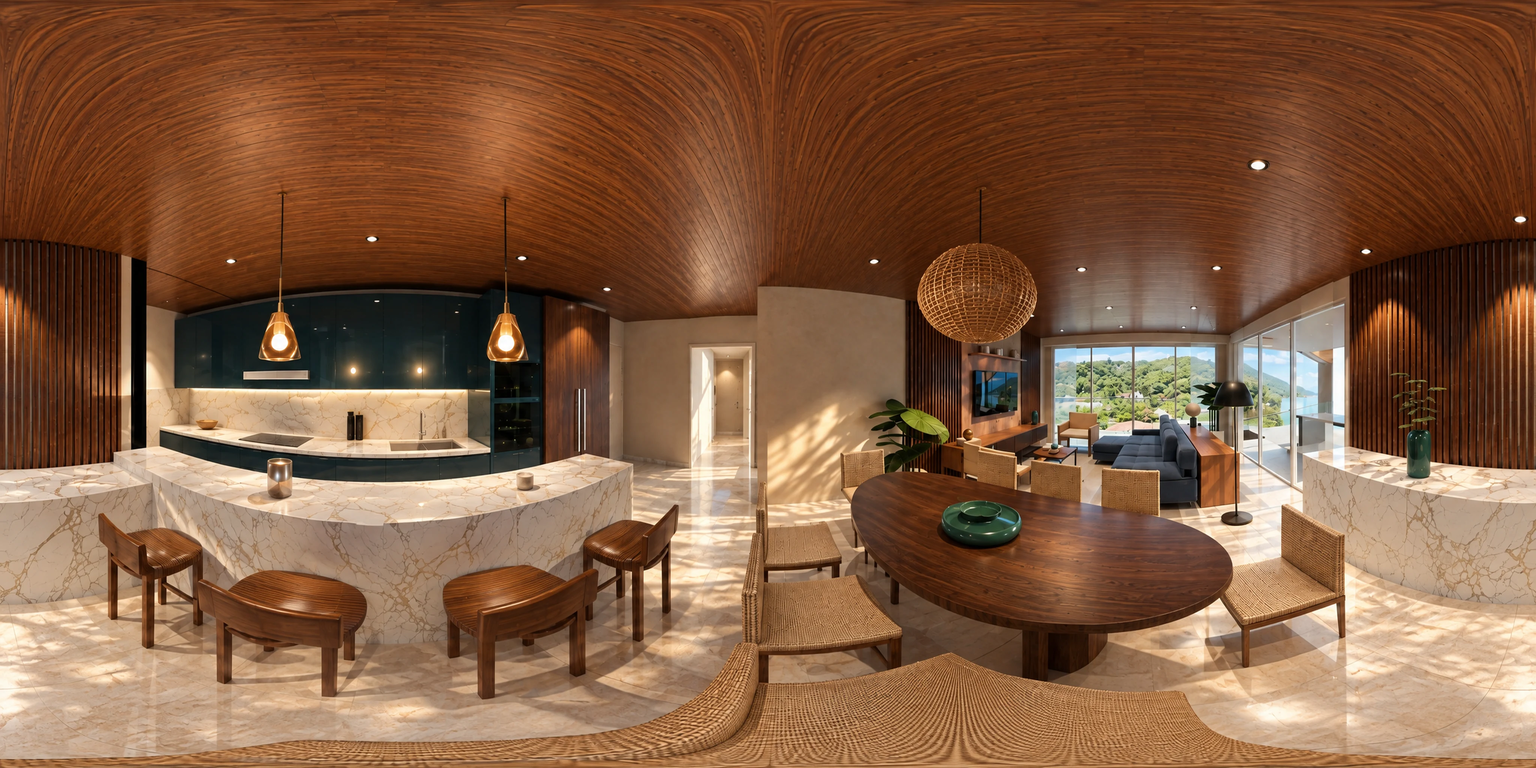
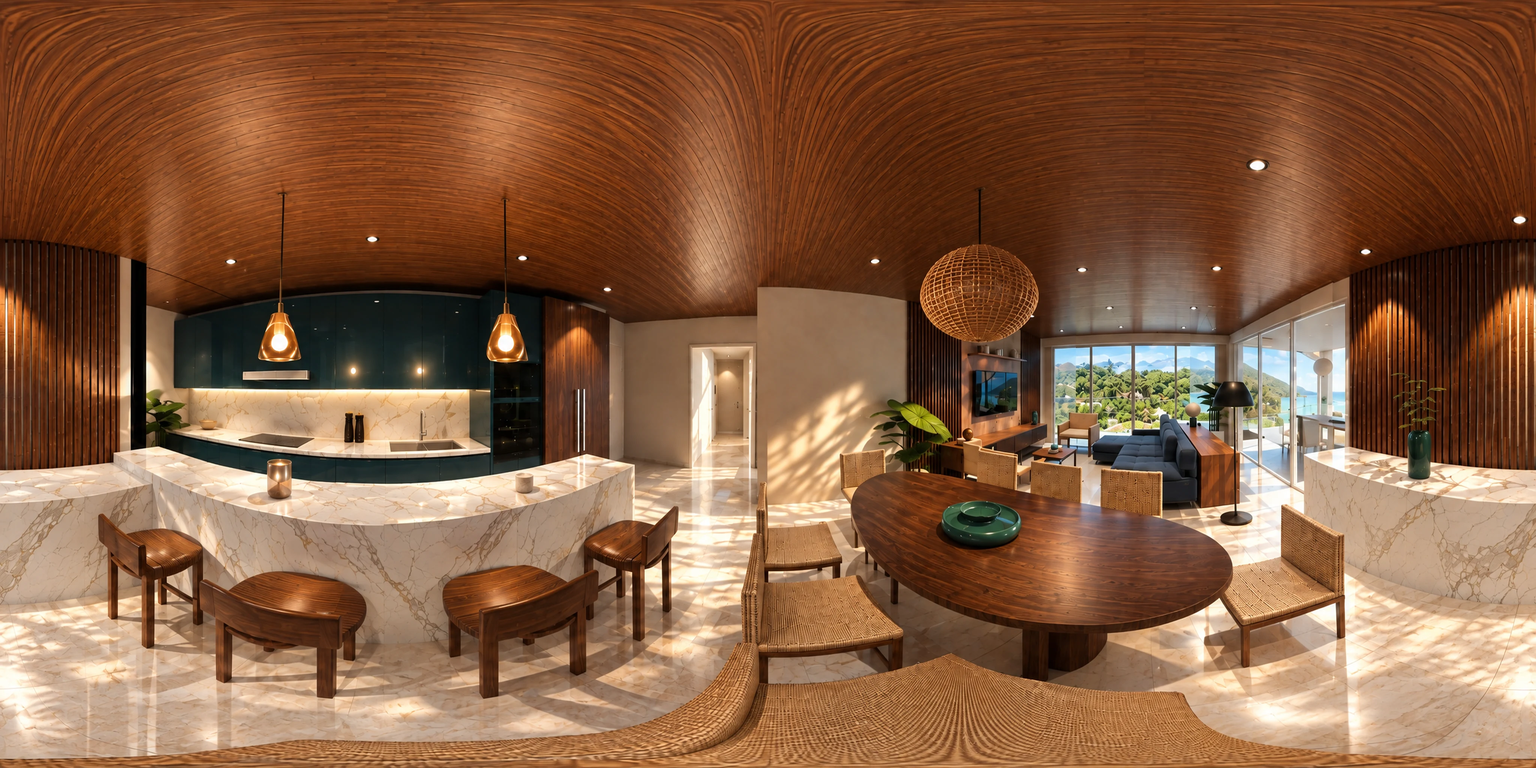
Tour 303: terraço modelado pela planta humanizada + medidas do DWG, vista real, living/cozinha refeitos

diff --git a/tour-303/index.html b/tour-303/index.html
@@ -29,7 +29,7 @@
            background: rgba(31,32,28,.86); -webkit-backdrop-filter: blur(12px); backdrop-filter: blur(12px);
            border: 1px solid rgba(255,229,212,.14); border-radius: 20px; padding: 14px; }
   .rooms { display: flex; gap: 8px; margin-bottom: 12px; }
-  .rooms button { flex: 1; font: inherit; font-size: 13px; font-weight: 600; padding: 10px 12px; border-radius: 999px; cursor: pointer;
+  .rooms button { flex: 1; white-space: nowrap; font: inherit; font-size: 13px; font-weight: 600; padding: 10px 12px; border-radius: 999px; cursor: pointer;
                   border: 1px solid rgba(255,229,212,.25); background: transparent; color: var(--peach); transition: .2s; }
   .rooms button[aria-pressed="true"] { background: var(--peach); color: var(--ink); border-color: var(--peach); }
   .map { position: relative; border-radius: 12px; overflow: hidden; background: #fff; }
@@ -109,7 +109,8 @@
 (function () {
   // Pontos do tour. x/y = posição na planta (0–1). yaw/pitch dos hotspots em graus (Pannellum).
   var ROOMS = [
-    { id: 'living', label: 'Living e jantar', x: 0.442, y: 0.326, yaw: 0, links: [{ to: 'cozinha', label: 'Cozinha', yaw: -106, pitch: -19 }] },
+    { id: 'terraco', label: 'Terraço', x: 0.725, y: 0.333, yaw: 60, links: [{ to: 'living', label: 'Living', yaw: 1, pitch: -11 }] },
+    { id: 'living', label: 'Living e jantar', x: 0.442, y: 0.326, yaw: 0, links: [{ to: 'cozinha', label: 'Cozinha', yaw: -106, pitch: -19 }, { to: 'terraco', label: 'Terraço', yaw: 179, pitch: -11 }] },
     { id: 'cozinha', label: 'Cozinha', x: 0.477, y: 0.545, yaw: 20, links: [{ to: 'living', label: 'Living', yaw: 74, pitch: -19 }] }
   ];
   function src(id) { return 'img/' + id + '.webp'; }
@@ -125,7 +126,7 @@
     };
   });
   var viewer = pannellum.viewer('pano', {
-    default: { firstScene: 'living', sceneFadeDuration: 900, autoLoad: true, showControls: true, compass: false, minHfov: 50, maxHfov: 115, mouseZoom: true, keyboardZoom: true },
+    default: { firstScene: 'terraco', sceneFadeDuration: 900, autoLoad: true, showControls: true, compass: false, minHfov: 50, maxHfov: 115, mouseZoom: true, keyboardZoom: true },
     scenes: scenes
   });
 

diff --git a/_ferramentas/tour303/cena_living.py b/_ferramentas/tour303/cena_living.py
@@ -340,11 +340,11 @@ def wall_y(y, x0, x1, openings=(), side=-1, m=None):
         if zt < H: box('verga', a, b, ya, yb, zt, H, m or M['wall'])
         if zb > 0: box('peitoril', a, b, ya, yb, 0, zb, m or M['wall'])
 
-DOOR_H = 2.55
+DOOR_H = 2.60   # esquadrias 2,60 m de altura (DWG)
 # fachada frontal (y=0): esquadria de piso a teto ao longo do living
 wall_y(0.0, -0.15, 4.9, openings=[(0.25, 4.5, DOOR_H, 0)])
 # lateral direita (x=4.75): vidro para a varanda gourmet
-wall_x(4.75, 0.0, 7.35, openings=[(0.9, 4.25, DOOR_H, 0)], side=1)
+wall_x(4.75, 0.0, 7.35, openings=[(0.75, 4.35, DOOR_H, 0)], side=1)   # porta 3,60 m (DWG)
 # nicho da cozinha / shaft
 wall_y(7.35, 4.75, 5.9, side=-1)
 wall_x(5.9, 7.35, 9.05, side=1)
@@ -380,22 +380,140 @@ def slider_x(x, y0, y1, n):
     box('vidro', x + 0.04, x + 0.05, y0, y1, 0.02, DOOR_H - 0.05, M['glass'])
 
 slider_y(0.0, 0.25, 4.5, 4)
-slider_x(4.75, 0.9, 4.25, 3)
+slider_x(4.75, 0.75, 4.35, 3)
 
-# ---- exterior: varanda frontal e varanda gourmet/solarium
-box('varanda_frontal', -1.6, 6.0, -1.55, -0.15, -0.06, -0.01, M['ext_floor'])
-box('forro_varanda', -1.6, 6.0, -1.55, -0.15, H, H + 0.05, M['ceiling'])
-box('guarda_corpo', -1.6, 6.0, -1.55, -1.53, 0, 1.1, M['glass'])
-box('corrimao', -1.6, 6.0, -1.56, -1.52, 1.1, 1.13, M['steel'])
-box('terraco', 4.9, 13.0, -1.55, 9.0, -0.06, -0.01, M['ext_floor'])
-box('guarda_corpo_terraco', 12.98, 13.0, -1.55, 9.0, 0, 1.1, M['glass'])
-box('corrimao_terraco', 12.97, 13.01, -1.55, 9.0, 1.1, 1.13, M['steel'])
-box('beiral_terraco', 4.9, 8.5, -1.55, 9.0, H, H + 0.25, M['plaster_white'])
-box('forro_terraco', 4.9, 8.5, -1.55, 9.0, H - 0.02, H, M['ceiling'])
-# mesa da varanda gourmet (planta: mesa 10 lugares)
-box('mesa_gourmet', 6.2, 7.2, 0.9, 3.4, 0.72, 0.77, M['wood_dark'], bevel=0.01)
-for yy in (1.1, 3.2):
-    box('pe_mesa_g', 6.3, 7.1, yy - 0.05, yy + 0.05, 0, 0.72, M['black'])
+# planta grande no canto (costela-de-adão/ave-do-paraíso)
+def plant(x, y, h=1.6, n=14):
+    cyl('vaso_planta', x, y, 0, 0.45, 0.22, M['pot'])
+    for i in range(n):
+        a = random.uniform(0, 2 * math.pi); r = random.uniform(0.1, 0.35)
+        z = random.uniform(0.7, h)
+        lf = sphere('folha', x + r * math.cos(a), y + r * math.sin(a), z, 0.2, M['leaf'], scale=(1.6, 0.7, 0.06))
+        lf.rotation_euler = (random.uniform(-0.6, 0.6), random.uniform(-0.5, 0.5), a)
+        stem_h = z - 0.45
+        cyl('haste', x + r * 0.5 * math.cos(a), y + r * 0.5 * math.sin(a), 0.45, 0.45 + stem_h, 0.008, M['leaf'])
+
+# ---- exterior (planta 303): varanda frontal + área gourmet coberta + solarium + deck com jacuzzi
+def prism(name, pts, z0, z1, m):
+    """Prisma a partir de polígono em coordenadas de planta (x, y para baixo)."""
+    import bmesh
+    me = bpy.data.meshes.new(name); o = bpy.data.objects.new(name, me); col.objects.link(o)
+    bm = bmesh.new()
+    vs = [bm.verts.new((x, -y, z0)) for x, y in pts]
+    f = bm.faces.new(vs if _ccw(pts) else vs[::-1])
+    r = bmesh.ops.extrude_face_region(bm, geom=[f])
+    bmesh.ops.translate(bm, verts=[e for e in r['geom'] if isinstance(e, bmesh.types.BMVert)], vec=(0, 0, z1 - z0))
+    bm.normal_update(); bm.to_mesh(me); bm.free()
+    o.data.materials.append(m)
+    return o
+def _ccw(pts):
+    a = sum(pts[i][0] * -pts[(i + 1) % len(pts)][1] - pts[(i + 1) % len(pts)][0] * -pts[i][1] for i in range(len(pts)))
+    return a > 0
+
+M['deck'] = node_mat('deck', wood_build('#a0693e', '#7a4a2a', scale=(1, 14, 1), gloss=0.55))
+M['porc_dark'] = mat('porcelanato_externo_escuro', srgb('#9a968f'), 0.55)
+M['porc_light'] = mat('porcelanato_externo_claro', srgb('#d9d6d0'), 0.6)
+M['white'] = mat('pintura_branca', srgb('#f1efeb'), 0.8)
+M['water'] = mat('agua', srgb('#8fd3dc'), 0.02, **{'Transmission Weight': 0.9, 'IOR': 1.33})
+M['outdoor'] = node_mat('tecido_externo', velvet('#c9bfae'))
+M['stone'] = mat('pedra', srgb('#8d8a84'), 0.8)
+
+# borda inclinada do deck: x = 13.6 em y=-1.3 até x = 14.85 em y=9.0
+def edge_x(y): return 13.6 + (y + 1.3) * (1.25 / 10.3)
+TOP, BOT = -1.3, 9.05
+
+# varanda frontal das suítes/living
+box('varanda_frontal', -1.6, 4.75, -1.3, -0.15, -0.06, -0.01, M['porc_dark'])
+box('forro_varanda', -1.6, 4.75, -1.3, -0.15, H, H + 0.05, M['ceiling'])
+# área gourmet coberta (piso escuro) x 4.75–8.25
+box('piso_gourmet', 4.75, 8.65, TOP, BOT, -0.06, -0.01, M['porc_dark'])
+# solarium descoberto (piso claro) x 8.25–11.0
+box('piso_solarium', 8.65, 11.0, TOP, BOT, -0.06, -0.01, M['porc_light'])
+# deck de madeira (com recorte da planta em x 11.0–11.75 abaixo de y 3.9)
+prism('deck_madeira', [(11.0, TOP), (edge_x(TOP), TOP), (edge_x(BOT), BOT), (11.75, BOT), (11.75, 3.9), (11.0, 3.9)], -0.06, 0.0, M['deck'])
+prism('solarium_recorte', [(11.0, 3.9), (11.75, 3.9), (11.75, BOT), (11.0, BOT)], -0.06, -0.01, M['porc_light'])
+# laje de cobertura da área gourmet (com forro de madeira) e beiral
+box('laje_gourmet', 4.75, 8.75, TOP - 0.2, BOT, H, H + 0.3, M['white'])
+box('forro_gourmet', 4.75, 8.65, TOP, BOT, H - 0.02, H, M['ceiling'])
+# colunas redondas brancas na borda da cobertura (como nas fotos)
+for yy in (-0.9, 3.9, 8.6):
+    cyl('coluna', 8.5, yy, 0, H, 0.13, M['white'])
+# platibanda + guarda-corpo de vidro na frente e na borda inclinada
+box('mureta_frente', 4.75, edge_x(TOP), TOP - 0.2, TOP, 0, 0.35, M['white'])
+box('vidro_frente', 4.75, edge_x(TOP), TOP - 0.12, TOP - 0.1, 0.35, 1.25, M['glass'])
+box('corrimao_frente', 4.75, edge_x(TOP), TOP - 0.13, TOP - 0.09, 1.25, 1.28, M['steel'])
+prism('mureta_lateral', [(edge_x(TOP), TOP), (edge_x(TOP) + 0.2, TOP), (edge_x(BOT) + 0.2, BOT), (edge_x(BOT), BOT)], 0, 0.35, M['white'])
+prism('vidro_lateral', [(edge_x(TOP) + 0.09, TOP), (edge_x(TOP) + 0.11, TOP), (edge_x(BOT) + 0.11, BOT), (edge_x(BOT) + 0.09, BOT)], 0.35, 1.25, M['glass'])
+prism('corrimao_lateral', [(edge_x(TOP) + 0.08, TOP), (edge_x(TOP) + 0.12, TOP), (edge_x(BOT) + 0.12, BOT), (edge_x(BOT) + 0.08, BOT)], 1.25, 1.28, M['steel'])
+# muro dos fundos (divisa) com painel de pedra, como na foto
+box('muro_fundos', 5.9, edge_x(BOT) + 0.2, BOT, BOT + 0.2, 0, 2.1, M['white'])
+box('painel_pedra', 11.2, 12.0, BOT - 0.02, BOT, 0.2, 2.1, M['stone'])
+# jardineira no fim do deck
+box('jardineira', 11.8, edge_x(8.4) - 0.05, 8.4, 8.95, 0, 0.45, M['white'])
+for k in range(16):
+    sphere('arbusto', 11.95 + k * 0.17, 8.68, 0.5, 0.18, M['leaf'], scale=(1, 1, 0.7))
+
+# --- área gourmet coberta: mesa de 10 lugares + bancada em L com cuba e churrasqueira
+GX0, GX1, GY0, GY1 = 6.05, 7.05, 0.95, 3.6
+box('mesa_gourmet', GX0, GX1, GY0, GY1, 0.72, 0.77, M['wood_dark'], bevel=0.01)
+for yy in (1.3, 3.25):
+    box('pe_mesa_g', GX0 + 0.15, GX1 - 0.15, yy - 0.05, yy + 0.05, 0, 0.72, M['black'])
+for i in range(4):
+    yy = 1.3 + i * 0.63
+    for side in (-1, 1):
+        cx = (GX0 + GX1) / 2 + side * 0.72
+        box('cadeira_g', cx - 0.22, cx + 0.22, yy - 0.22, yy + 0.22, 0.44, 0.49, M['cane'], bevel=0.01)
+        bx = cx + side * 0.2
+        box('cadeira_g_enc', bx - 0.025, bx + 0.025, yy - 0.21, yy + 0.21, 0.49, 0.85, M['cane'], bevel=0.01)
+        for (px_, py_) in ((-0.19, -0.19), (0.19, -0.19), (-0.19, 0.19), (0.19, 0.19)):
+            box('cadeira_g_pe', cx + px_ - 0.017, cx + px_ + 0.017, yy + py_ - 0.017, yy + py_ + 0.017, 0, 0.44, M['wood'])
+for yy in (GY0 - 0.3, GY1 + 0.3):
+    cx = (GX0 + GX1) / 2
+    box('cadeira_g_cab', cx - 0.22, cx + 0.22, yy - 0.22, yy + 0.22, 0.44, 0.49, M['cane'], bevel=0.01)
+cyl('centro_mesa_g', 6.55, 2.25, 0.77, 0.83, 0.2, M['ceramic'])
+sphere('pendente_g1', 6.55, 1.7, 2.0, 0.26, M['cane'], scale=(1, 1, 0.8))
+sphere('pendente_g2', 6.55, 2.9, 2.0, 0.26, M['cane'], scale=(1, 1, 0.8))
+for yy in (1.7, 2.9):
+    cyl('fio_g', 6.55, yy, 2.2, H, 0.004, M['black'])
+# bancada em L (mármore) com cuba; parte junto à parede do nicho e parte com banquetas
+box('bancada_g_parede', 5.9, 7.45, 6.95, 7.35, 0, 0.92, M['marble'])
+box('bancada_g_ilha', 6.1, 6.9, 4.55, 7.35, 0, 0.92, M['marble'])
+box('tampo_madeira_g', 6.9, 7.45, 4.55, 7.35, 0.92, 0.96, M['wood_dark'])
+box('base_tampo', 6.9, 6.95, 4.55, 7.35, 0, 0.92, M['wood_dark'])
+box('cuba_g', 6.25, 6.75, 5.2, 5.9, 0.85, 0.921, M['steel'])
+cyl('torneira_g', 6.2, 5.55, 0.92, 1.2, 0.015, M['steel'])
+box('churrasqueira', 5.95, 6.55, 7.0, 7.34, 0.92, 1.05, M['black'])
+for yy in (4.9, 5.55, 6.2, 6.85):
+    cyl('banqueta_g', 7.65, yy, 0.72, 0.76, 0.19, M['wood'])
+    box('banqueta_g_enc', 7.86, 7.89, yy - 0.16, yy + 0.16, 0.76, 0.95, M['wood'])
+    cyl('banqueta_g_pe', 7.7, yy, 0.0, 0.72, 0.02, M['black'])
+plant(5.4, 8.0, h=1.4, n=10)
+
+# --- solarium: lounge (sofá + 4 poltronas + mesa de centro) e 2 chaises
+box('sofa_ext', 10.2, 10.95, 0.05, 1.95, 0.1, 0.42, M['outdoor'], bevel=0.04)
+box('sofa_ext_enc', 10.75, 10.95, 0.05, 1.95, 0.42, 0.8, M['outdoor'], bevel=0.05)
+for (x, y) in ((9.05, -0.55), (9.8, -0.55), (9.05, 2.4), (9.8, 2.4)):
+    box('poltrona_ext', x - 0.32, x + 0.32, y - 0.32, y + 0.32, 0.1, 0.42, M['outdoor'], bevel=0.04)
+    back = y - 0.3 if y < 1 else y + 0.3
+    box('poltrona_ext_enc', x - 0.32, x + 0.32, back - 0.07, back + 0.07, 0.42, 0.75, M['outdoor'], bevel=0.04)
+box('mesa_centro_ext', 9.2, 9.6, 0.35, 1.3, 0.3, 0.38, M['wood'], bevel=0.01)
+box('mesa_lateral_ext', 10.3, 10.65, 2.2, 2.55, 0, 0.42, M['wood'])
+plant(10.75, -0.75, h=1.1, n=9)
+for y0 in (4.35, 5.55):
+    box('chaise', 9.3, 11.0, y0, y0 + 0.8, 0.12, 0.38, M['outdoor'], bevel=0.04)
+    enc = box('chaise_enc', 10.55, 11.0, y0, y0 + 0.8, 0.38, 0.7, M['outdoor'], bevel=0.04)
+    box('chaise_base', 9.35, 10.95, y0 + 0.05, y0 + 0.75, 0, 0.12, M['wood'])
+cyl('mesinha_chaise', 10.2, 5.3, 0, 0.45, 0.14, M['wood'])
+
+# --- deck: jacuzzi + 3 espreguiçadeiras
+box('jacuzzi_borda', 11.15, 13.05, -0.75, 1.45, 0.0, 0.55, M['white'])
+box('jacuzzi_agua', 11.3, 12.9, -0.6, 1.3, 0.3, 0.5, M['water'])
+for y0 in (2.6, 3.85, 5.25):
+    x0 = 12.2 + (y0 - 2.6) * 0.1
+    box('espreg', x0, x0 + 1.9, y0, y0 + 0.72, 0.18, 0.34, M['navy'], bevel=0.03)
+    box('espreg_enc', x0 + 1.4, x0 + 1.9, y0, y0 + 0.72, 0.34, 0.72, M['navy'], bevel=0.03)
+    box('espreg_base', x0 + 0.05, x0 + 1.85, y0 + 0.04, y0 + 0.68, 0, 0.18, M['steel'])
+cyl('mesinha_deck', 13.35, 4.9, 0, 0.45, 0.2, M['wood'])
 
 # fundos com fotos reais da vista da 303 (sem IA)
 def backdrop(name, path, center, size, rot_z, crop=None, strength=1.0):
@@ -421,10 +539,12 @@ def backdrop(name, path, center, size, rot_z, crop=None, strength=1.0):
     o.visible_shadow = False
     return o
 
-VIEW_A = os.path.join(ORIG, 'WhatsApp-Image-2026-02-09-at-11.46.07.jpeg')    # baía (varanda)
-VIEW_B = os.path.join(ORIG, 'WhatsApp-Image-2026-02-09-at-11.46.10-3.jpeg')  # baía + morro (solarium)
-backdrop('vista_frente', VIEW_A, (2.4, 32.0, 6.0), (70, 32), 180, crop=(0.2, 0.0, 0.95, 0.72), strength=1.15)
-backdrop('vista_lateral', VIEW_B, (45.0, -4.0, 5.0), (80, 36), 90, crop=(0.55, 0.15, 1.0, 0.85), strength=1.15)
+VIEW_BAIA = os.path.join(ORIG, 'WhatsApp-Image-2026-02-09-at-11.46.10-3.jpeg')   # do solarium, olhando para a frente: baía + morro
+VIEW_JARDIM = os.path.join(ORIG, 'WhatsApp-Image-2026-02-09-at-11.46.10.jpeg')   # do solarium, olhando para a lateral: jardins + serra
+# fotos reais em planos distantes (~45 m), horizonte na altura dos olhos
+backdrop('vista_frente', VIEW_BAIA, (9.0, 45.0, 1.0), (100, 70.3), 180, crop=(0.2, 0.0, 1.0, 1.0), strength=1.15)
+backdrop('vista_lateral', VIEW_JARDIM, (55.0, -3.0, 1.0), (110, 68.8), 90, crop=(0.08, 0.0, 1.0, 1.0), strength=1.15)
+backdrop('vista_fundos', VIEW_JARDIM, (9.0, -55.0, 1.0), (110, 68.8), 0, crop=(0.0, 0.0, 0.85, 1.0), strength=1.0)
 
 # ================================================================== LIVING
 # parede da TV: ripado de madeira em toda a parede esquerda do living
@@ -499,16 +619,6 @@ shade = bpy.context.active_object; shade.name = 'luminaria_cupula'
 sol = shade.modifiers.new('espessura', 'SOLIDIFY'); sol.thickness = 0.004
 shade.data.materials.append(M['black']); bpy.ops.object.shade_smooth()
 
-# planta grande no canto (costela-de-adão/ave-do-paraíso)
-def plant(x, y, h=1.6, n=14):
-    cyl('vaso_planta', x, y, 0, 0.45, 0.22, M['pot'])
-    for i in range(n):
-        a = random.uniform(0, 2 * math.pi); r = random.uniform(0.1, 0.35)
-        z = random.uniform(0.7, h)
-        lf = sphere('folha', x + r * math.cos(a), y + r * math.sin(a), z, 0.2, M['leaf'], scale=(1.6, 0.7, 0.06))
-        lf.rotation_euler = (random.uniform(-0.6, 0.6), random.uniform(-0.5, 0.5), a)
-        stem_h = z - 0.45
-        cyl('haste', x + r * 0.5 * math.cos(a), y + r * 0.5 * math.sin(a), 0.45, 0.45 + stem_h, 0.008, M['leaf'])
 plant(4.35, 0.45)
 plant(0.45, 4.5, h=1.3, n=10)
 
@@ -614,12 +724,12 @@ sun = bpy.context.active_object
 sun.data.energy = 5.5
 sun.data.angle = math.radians(1.5)
 sun.data.color = (1.0, 0.86, 0.7)
-sun.rotation_euler = (math.radians(62), 0, math.radians(75))
+sun.rotation_euler = (math.radians(55), 0, math.radians(80))   # sol de fim de tarde vindo de noroeste (norte do DWG)
 
 world = bpy.data.worlds.new('ceu'); scene.world = world
 world.use_nodes = True
 bg = world.node_tree.nodes['Background']
-bg.inputs['Color'].default_value = (*srgb('#9ec3e6'), 1)
+bg.inputs['Color'].default_value = (*srgb('#6fa3dc'), 1)
 bg.inputs['Strength'].default_value = 2.2
 
 # portais de luz nas esquadrias
@@ -630,7 +740,7 @@ def portal(loc, size, rot):
     p.data.cycles.is_portal = True
     p.rotation_euler = rot
 portal((2.375, 0.05, 1.28), (4.3, 2.55), (math.radians(90), 0, 0))
-portal((4.85, -2.575, 1.28), (3.4, 2.55), (math.radians(90), 0, math.radians(90)))
+portal((4.85, -2.55, 1.3), (3.6, 2.6), (math.radians(90), 0, math.radians(90)))
 
 # spots embutidos no forro (luz quente 3000K)
 spots = [(x, y) for x in (0.9, 2.2, 3.5) for y in (1.0, 2.4, 3.8)] + \
@@ -723,6 +833,8 @@ SHOTS = {
     # panoramas 360: câmera na altura dos olhos (1,60 m); yaw 90 = olhando para a fachada (y planta negativo)
     'living_360':  dict(loc=(1.95, 2.8, 1.6), rot=(90, 0, 90), pano=True),
     'cozinha_360': dict(loc=(2.9, 6.1, 1.6), rot=(90, 0, 90), pano=True),
+    'terraco_360': dict(loc=(9.7, 2.9, 1.6), rot=(90, 0, 90), pano=True, exposure=-0.6),
+    'deck_360':    dict(loc=(12.0, 3.0, 1.6), rot=(90, 0, 90), pano=True, exposure=-0.6),
     # perspectivas (para refinamento na Higgsfield e comparação)
     'living_persp':  dict(loc=(4.2, 4.6, 1.35), rot=(84, 0, 128), lens=16),
     'cozinha_persp': dict(loc=(0.9, 5.6, 1.4), rot=(80, 0, -145), lens=17),
@@ -731,6 +843,7 @@ for name, s in SHOTS.items():
     if ONLY and name not in ONLY:
         continue
     cam = camera(name, s['loc'], s['rot'], s.get('pano', False), s.get('lens', 20))
+    scene.view_settings.exposure = s.get('exposure', 1.1)
     scene.camera = cam
     if s.get('pano'):
         scene.render.resolution_x, scene.render.resolution_y = RES, RES // 2
